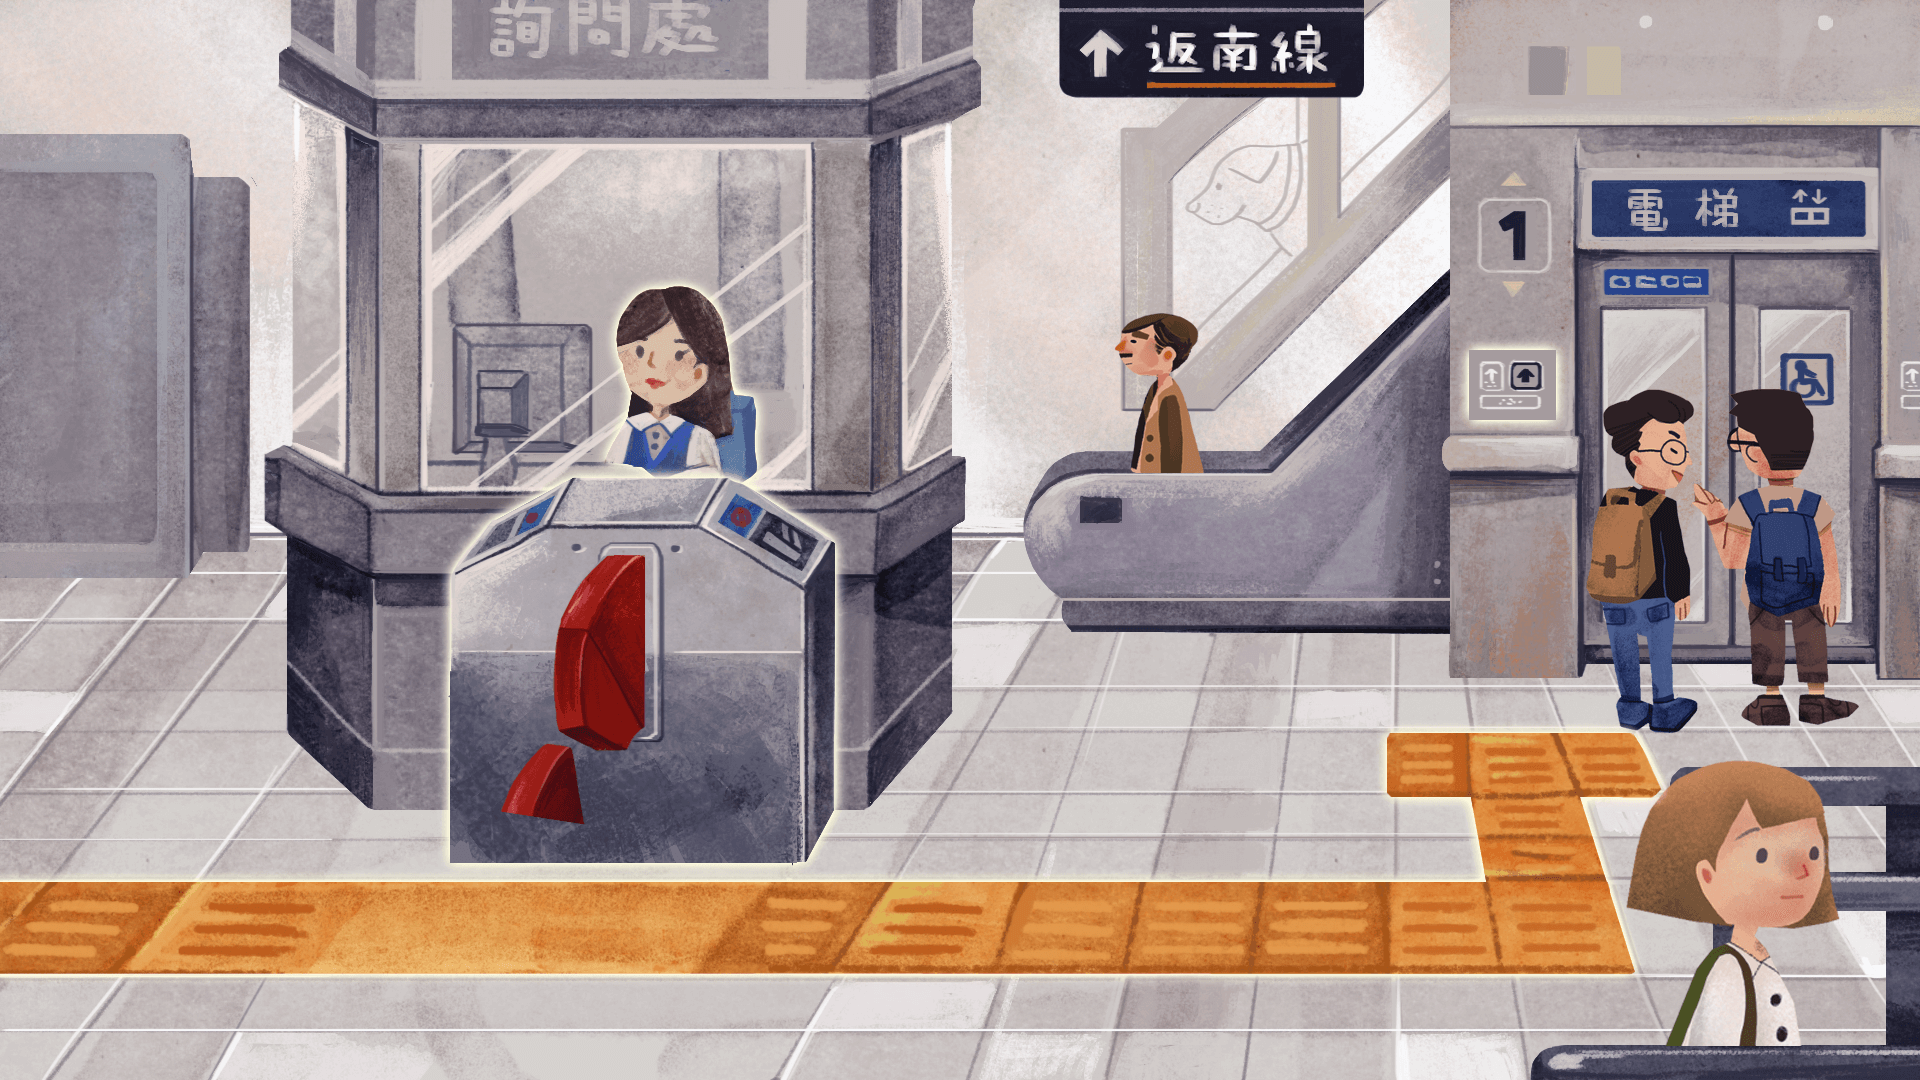
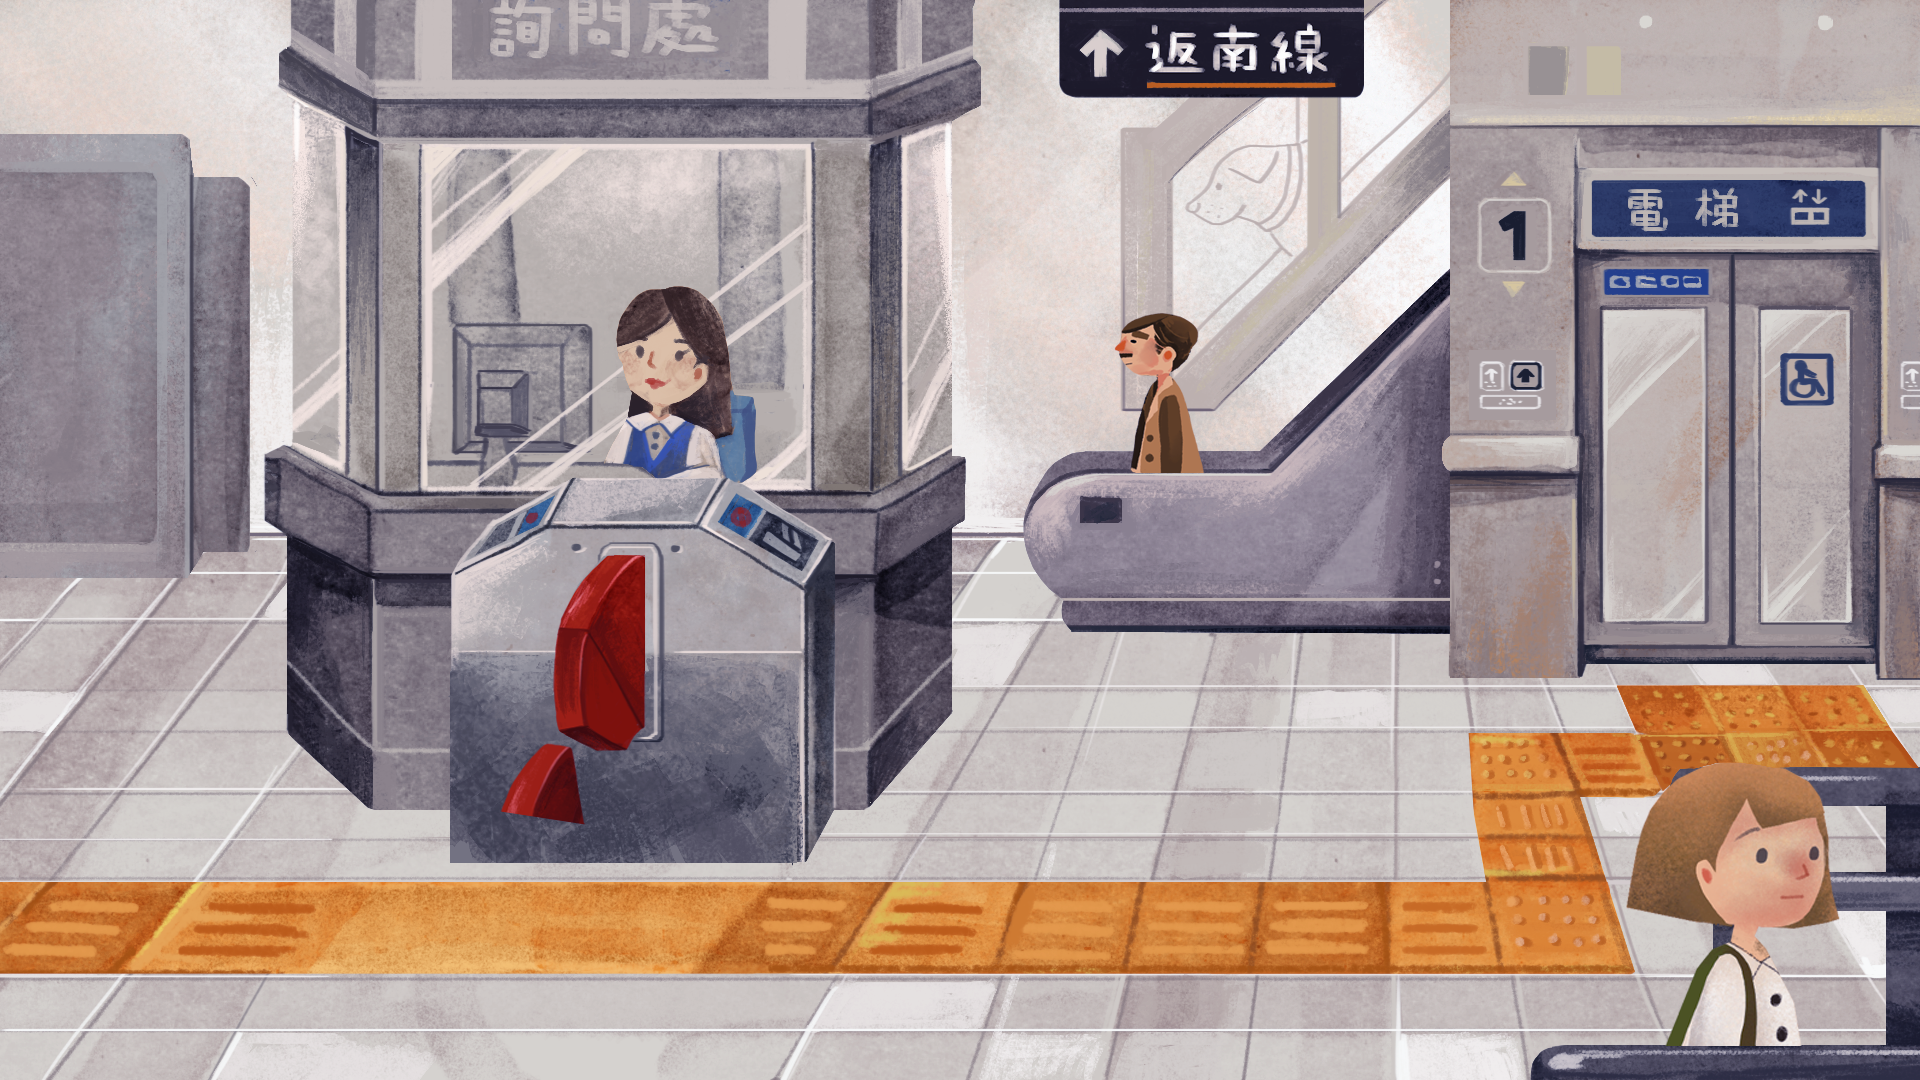
new assets

diff --git a/states/Work/DogSchoolScene.js b/states/Work/DogSchoolScene.js
@@ -95,21 +95,21 @@ DogSchoolScene.prototype = {
       1:{font: "bold 48px SansCJK", fill: 'White'}
     },
     1:[
-        ['Joseph 我們到了！我們成功抵達公司了！','一路上經歷這麼多事情真是辛苦你了'],
-        ['儘管碰上了許多困難','這最後一次的矇眼訓練你還是很成功喔！','只是……'],
-        ['雖然你準備好了','這個世界卻似乎還沒準備好接受你呢'],
+        ['Joseph 我們到了！我們成功抵達終點了！','一路上經歷這麼多事情真是辛苦你了'],
+        ['儘管碰上了許多困難','這一次的矇眼訓練你還是很成功喔！','只是……'],
+        ['雖然你準備好了','這個世界卻還有許多危險的阻礙呢'],
         ['對不起','我們明天再繼續加油吧']
       ],
     2:[
         ['Joseph 我們到了！我們差一點就破紀錄了好可惜！','一路上經歷這麼多事情真是辛苦你了'],
         ['儘管有一些小失誤','這一次的矇眼訓練你還是大成功喔！','表示……'],
-        ['你幾乎準備好了','這個世界你就快要駕輕就熟了呢'],
-        ['加把勁','我們明天再繼續努力吧']
+        ['你不再需要害怕','這個世界幾乎難不倒你了呀'],
+        ['加把勁','我們明天還會更好的喔']
       ],
     3:[
         ['Joseph 我們到了！我們成功破了昨天的紀錄了！','一路上經歷這麼多事情真是辛苦你了'],
-        ['儘管面對這麼多挑戰','這最後一次的矇眼訓練你還是完美克服了！'],
-        ['所以……','驕傲地穿上披風','去成為引領盲人心之所向的英雄吧'],
+        ['儘管面對這麼多挑戰','這最後一次的矇眼訓練你完美達成了！'],
+        ['所以……','驕傲地脫下披風吧','去成為引領盲人心之所向的英雄吧'],
         ['恭喜你','從明天起你就是一隻合格的導盲犬了']
       ]
   },

diff --git a/states/Loading.js b/states/Loading.js
@@ -249,7 +249,7 @@ Loading.prototype = {
     // home items
     game.load.spritesheet('home_document_sprite', 'assets/images/home/Document_Sprite.png', 219, 176);
     game.load.spritesheet('home_saddle_sprite', 'assets/images/home/saddle_sprite.png', 306, 158);
-    game.load.spritesheet('home_stick_sprite', 'assets/images/home/guidecane_sprite.png', 120, 240);
+    game.load.spritesheet('home_stick_sprite', 'assets/images/home/guidecane_sprite.png', 243, 243);
     game.load.spritesheet('home_hat_sprite', 'assets/images/home/hat_sprite.png', 93, 199);
     game.load.spritesheet('home_raincoat_sprite', 'assets/images/home/raincoat_sprite.png', 148, 78);
     game.load.spritesheet('home_umbrella_sprite', 'assets/images/home/umbrella_sprite.png', 57, 216);
@@ -466,8 +466,10 @@ Loading.prototype = {
     game.load.image('mrtstation_bg_good', 'assets/images/work/mrt_station/bgs/MRT_station_ord.png');
     game.load.image('mrtstation_bg_good_bright', 'assets/images/work/mrt_station/bgs/MRT_station_ord_bright.png');
     game.load.image('mrtstation_bg_good_gate_woman', 'assets/images/work/mrt_station/bgs/MRT_station_ord_gate_woman.png');
+    game.load.image('mrtstation_bg_good_gate_kid', 'assets/images/work/mrt_station/bgs/MRT_station_ord_gate_kid.png');
     game.load.image('mrtstation_bg_bad', 'assets/images/work/mrt_station/bgs/MRT_station_bad.png');
     game.load.image('mrtstation_bg_bad_gate_woman', 'assets/images/work/mrt_station/bgs/MRT_station_bad_gate_woman.png');
+    game.load.image('mrtstation_bg_bad_kid', 'assets/images/work/mrt_station/bgs/MRT_station_bad_1.png');
     // top left
     game.load.image('mrtstation_status', 'assets/images/arcade/status.png');
     game.load.image('mrtstation_sun_icon', 'assets/images/arcade/sunny.png');

diff --git a/states/HomeScene.js b/states/HomeScene.js
@@ -92,11 +92,11 @@ HomeScene.prototype = {
   },
   boxDistance: 190, 
   txt:{
-    doc:     '公文袋：\n這個還是帶著預防萬一好了，雖然\n近來已經比較少拿出來了～',
-    hat:     '帽子：\n大家都說這頂帽子超好看的！戴帽\n子除了遮陽，還有其他功能喔！',
-    saddle:  '導盲鞍：\n哈哈，看到我拿導盲鞍還是這麼興\n奮啊，好了好了不要再鑽了，很快\n就戴好了啦', 
+    doc:     '公文：\n是 Joseph 做為導盲犬的官方證明喔\n，還是帶著以防萬一。',
+    hat:     '帽子：\n帽子不只是帥氣配件，還能保護我的\n頭部安全。',
+    saddle:  '導盲鞍：\n戴上裝備，開始今天的冒險吧！', 
     cape:    '披風：\n身為我的英雄，當然是要穿披風才\n稱頭啊',
-    stick:   '手杖：\n雖然有了Joseph，這個還是要帶\n著才能預防更多危險呢',
+    stick:   '白手杖：\n雖然有了Joseph，這個還是要帶\n著才能預防更多危險呢',
     raincoat:'雨衣：\n不知道前陣子朋友送給 Joseph\n的新雨衣今天會派上用場嗎？', 
     umbrella:'雨傘：\n對了，氣象預報好像有說今天會\n下雨。'
   },

diff --git a/states/Work/MrtStationScene.js b/states/Work/MrtStationScene.js
@@ -9,7 +9,7 @@ MrtStationScene.prototype = {
   nextScene:'MrtStationTransition',
   musicName:'work_mrt_station',
   background_good:{
-    size: 3,
+    size: 4,
     0:{
       name:'mrtstation_bg_good',
       sprite: null,
@@ -39,10 +39,20 @@ MrtStationScene.prototype = {
       center_anchor: true,
       tweenIn: null,
       tweenOut: null
+    },
+    3:{
+      name:'mrtstation_bg_good_gate_kid',
+      sprite: null,
+      position:{
+        x: 1722,y: 561
+      },
+      center_anchor: true,
+      tweenIn: null,
+      tweenOut: null
     }
   },
   background_bad:{
-    size: 2,
+    size: 3,
     0:{
       name:'mrtstation_bg_bad',
       sprite: null,
@@ -58,6 +68,16 @@ MrtStationScene.prototype = {
       sprite: null,
       position:{
         x: 784,y: 855
+      },
+      middle_anchor: true,
+      tweenIn: null,
+      tweenOut: null
+    },
+    2:{
+      name:'mrtstation_bg_bad_kid',
+      sprite: null,
+      position:{
+        x: 1722,y: 561
       },
       middle_anchor: true,
       tweenIn: null,
